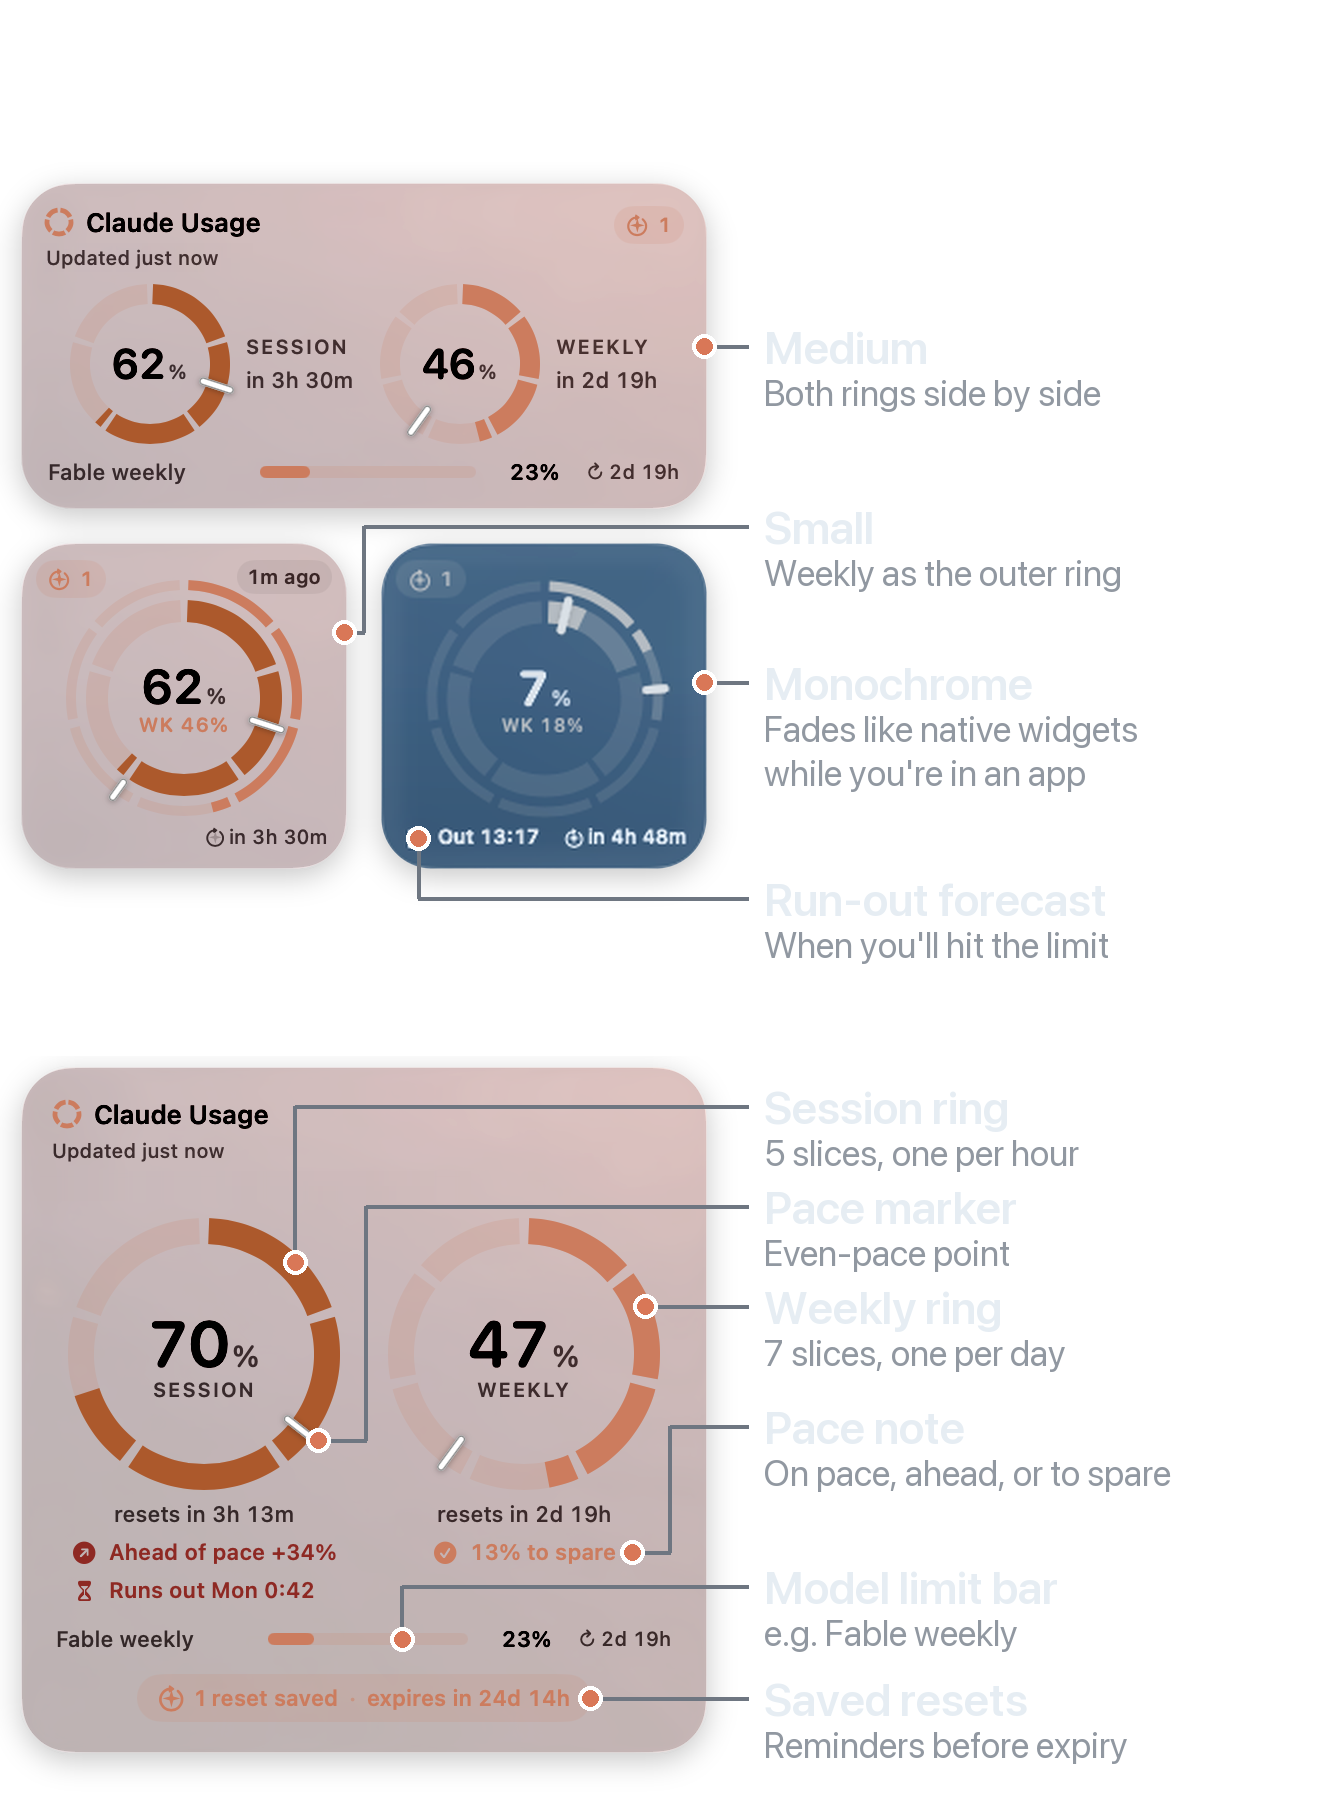
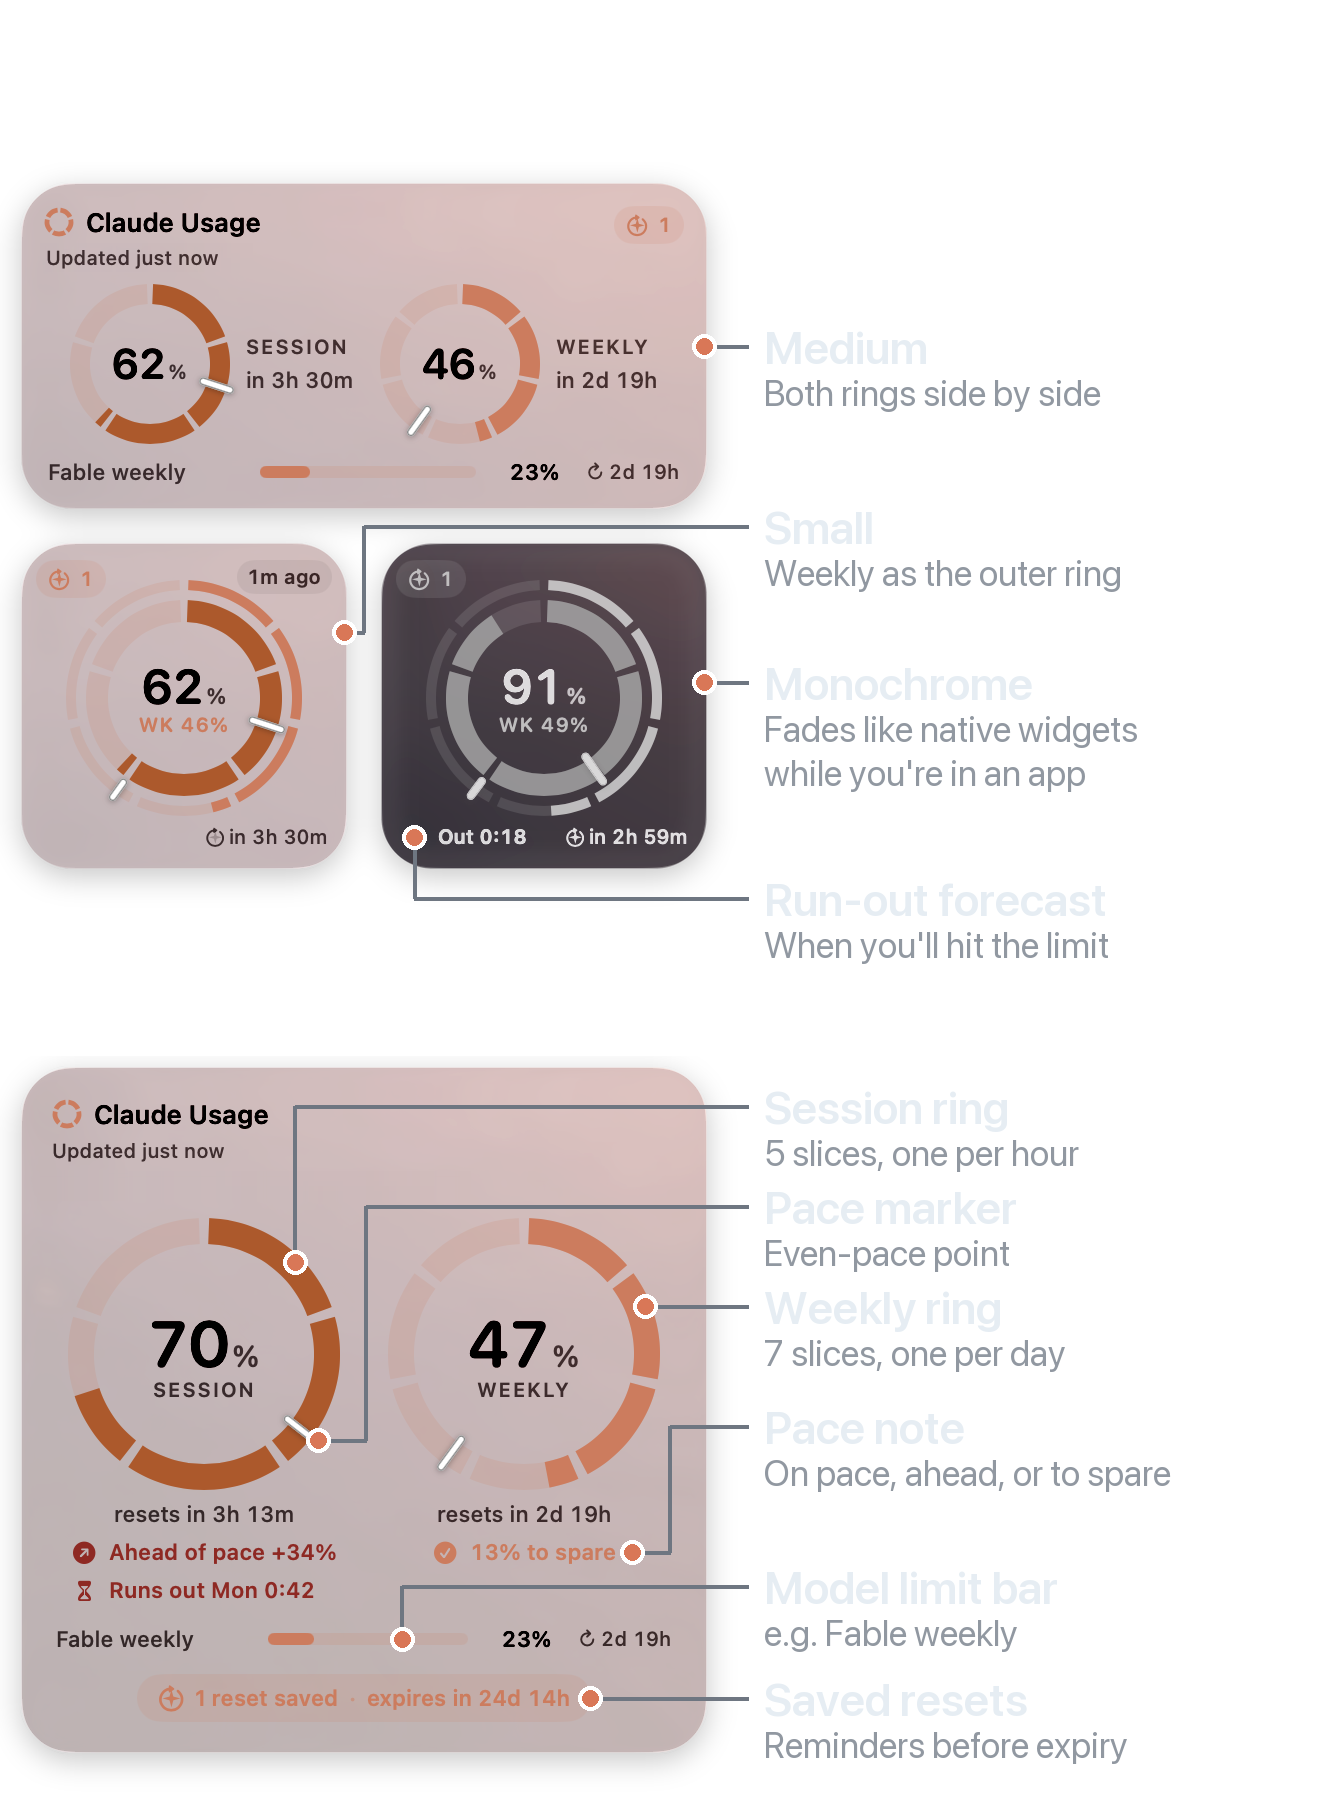
README: new monochrome small widget (run-out note showing)

Changed region(s): [[0.2795, 0.2806, 0.5591, 0.4989]]

diff --git a/tools/readme/features.py b/tools/readme/features.py
@@ -4,7 +4,7 @@
 import os, sys; sys.path.insert(0, os.path.dirname(os.path.abspath(__file__)))
 from cutout import cut
 from PIL import Image, ImageDraw, ImageFont, ImageFilter
-large=cut('docs/images/large.png')[0]; med=cut('docs/images/medium.png')[0]; sm=cut('docs/images/small.png')[0]; mono=cut('docs/images/small-mono.png')[0]   # already 2x
+large=cut('docs/images/large.png')[0]; med=cut('docs/images/medium.png')[0]; sm=cut('docs/images/small.png')[0]; mono=cut('docs/images/small-mono.png')[0]
 def font(wt,sz):
     f=ImageFont.truetype('/System/Library/Fonts/SFNS.ttf',sz)
     try: f.set_variation_by_name(wt)
@@ -42,7 +42,7 @@ A_notes=[
  ('Medium',['Both rings side by side'],'l',[(684,164),(RX,164)]),
  ('Small',['Weekly as the outer ring'],'l',[(324,450),(344,450),(344,344),(RX,344)]),
  ('Monochrome',['Fades like native widgets','while you\'re in an app'],'l',[(684,500),(RX,500)]),
- ('Run-out forecast',['When you\'ll hit the limit'],'l',[(398,656),(398,716),(RX,716)]),
+ ('Run-out forecast',['When you\'ll hit the limit'],'l',[(394,655),(394,716),(RX,716)]),
 ]
 B_tiles=[(large,(0,0))]
 B_notes=[   # large widget, cut-out coordinates (688x688)
